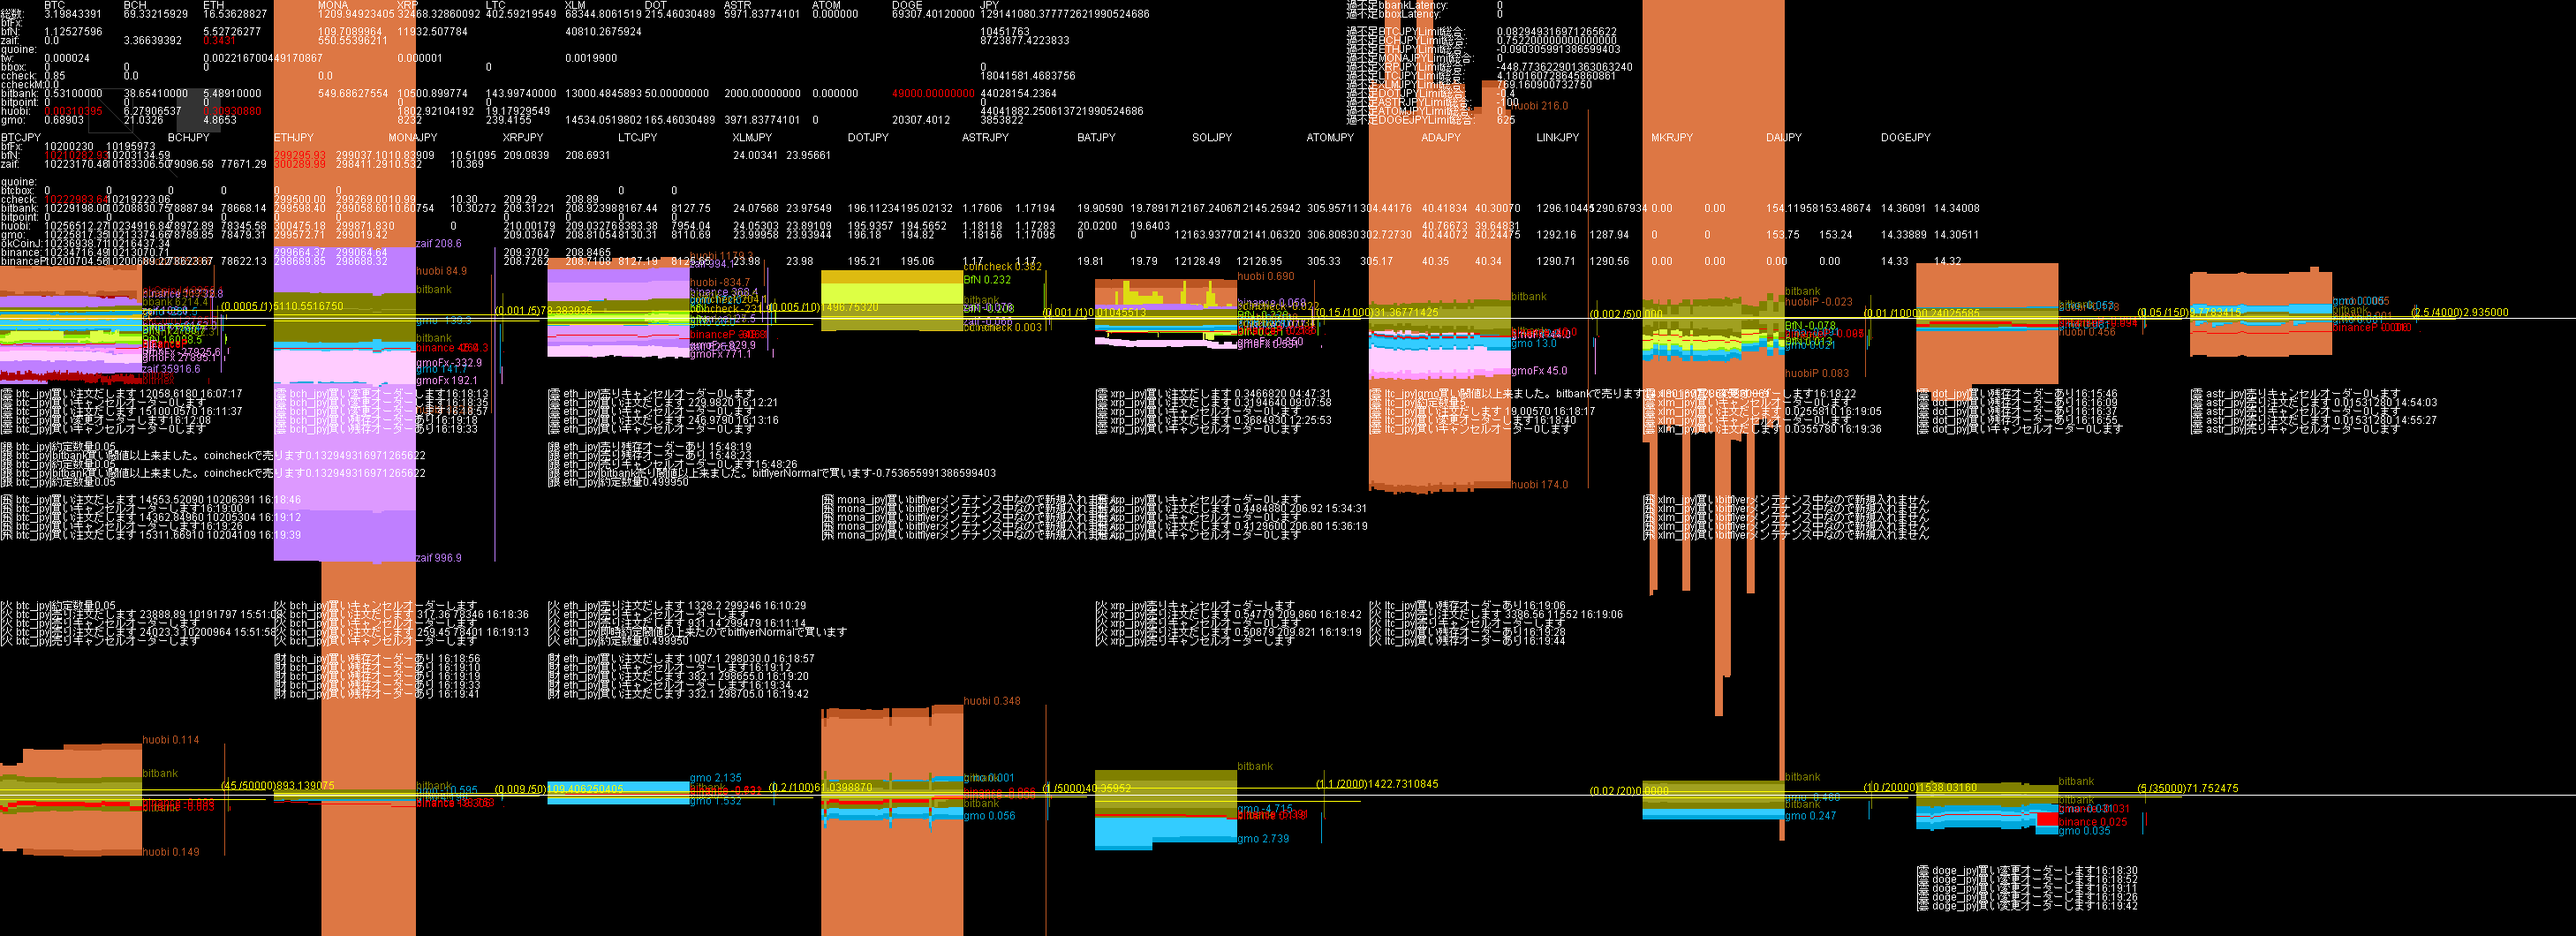
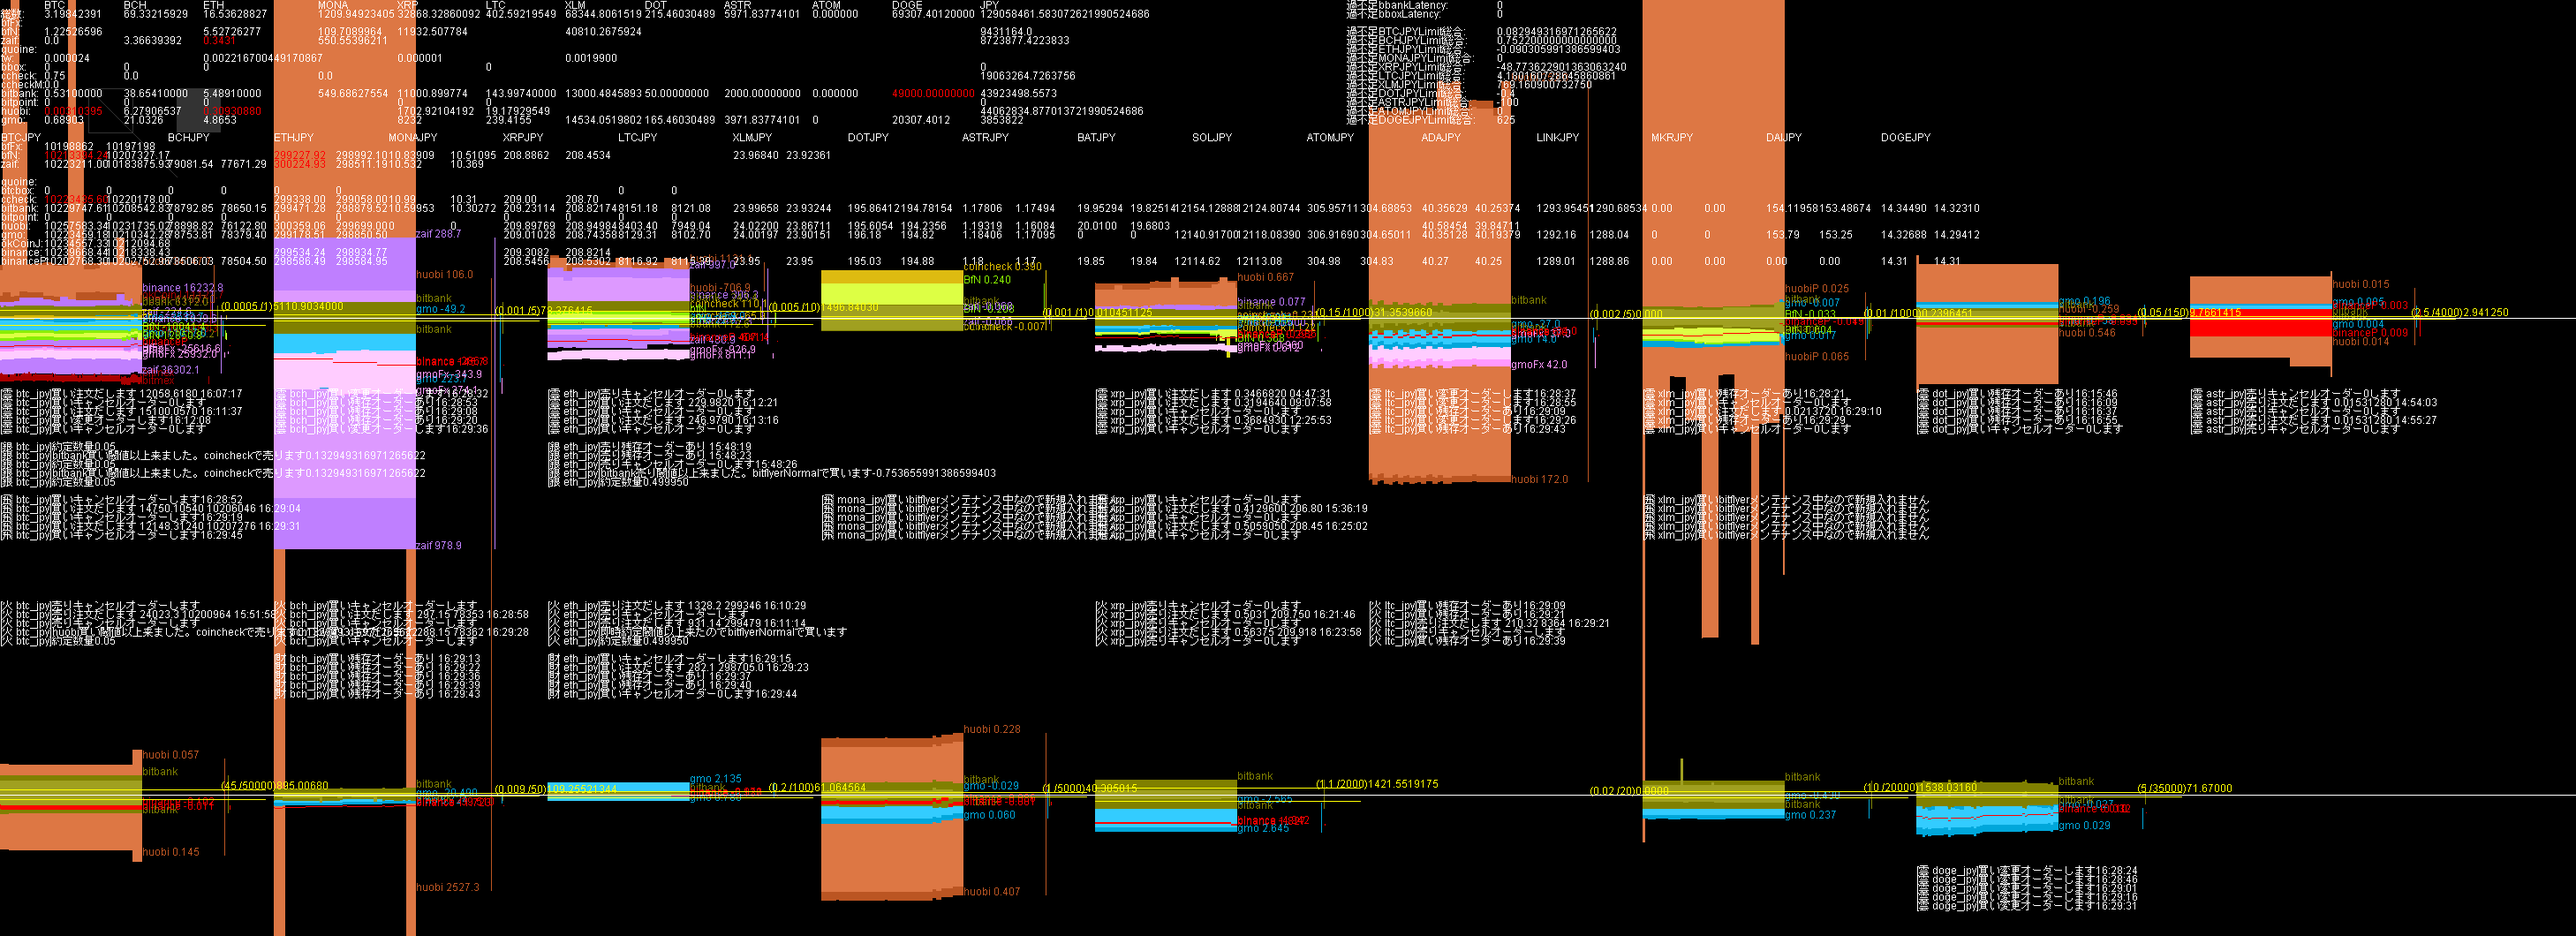
Update HTML file via Java

diff --git a/ca.html b/ca.html
@@ -16,6 +16,9 @@ th { background-color: #222; text-align: center; }
     <tr><th>ddhhmm</th><th>bfJPY</th><th>財JPY</th><th>ccJPY</th><th>銀JPY</th><th>火JPY</th><th>雲JPY</th><th>bfBTC</th><th>財BTC</th><th>ccBTC</th><th>銀BTC</th><th>火BTC</th><th>雲BTC</th><th>bfBCH</th><th>財BCH</th><th>ccBCH</th><th>銀BCH</th><th>火BCH</th><th>雲BCH</th><th>bfETH</th><th>財ETH</th><th>ccETH</th><th>銀ETH</th><th>火ETH</th><th>雲ETH</th><th>bfMONA</th><th>財MONA</th><th>ccMONA</th><th>銀MONA</th><th>火MONA</th><th>雲MONA</th><th>bfXRP</th><th>財XRP</th><th>ccXRP</th><th>銀XRP</th><th>火XRP</th><th>雲XRP</th><th>bfLTC</th><th>財LTC</th><th>ccLTC</th><th>銀LTC</th><th>火LTC</th><th>雲LTC</th><th>bfXLM</th><th>財XLM</th><th>ccXLM</th><th>銀XLM</th><th>火XLM</th><th>雲XLM</th><th>bfDOT</th><th>財DOT</th><th>ccDOT</th><th>銀DOT</th><th>火DOT</th><th>雲DOT</th><th>bfASTR</th><th>財ASTR</th><th>ccASTR</th><th>銀ASTR</th><th>火ASTR</th><th>雲ASTR</th><th>bfDOGE</th><th>財DOGE</th><th>ccDOGE</th><th>銀DOGE</th><th>火DOGE</th><th>雲DOGE</th>    </tr>  </thead>
   <tbody>
     <tr>
+<td>131629</td><td>00943</td><td>00872</td><td>01906</td><td>04392</td><td>04406</td><td>00385</td><td>01.23</td><td>00.00</td><td>00.75</td><td>00.53</td><td><span style="color: #ff69b4">00.00</span></td><td>00.69</td><td>00.00</td><td>03.37</td><td>00.00</td><td>38.65</td><td>06.28</td><td>21.03</td><td>05.53</td><td><span style="color: #ff69b4">00.34</span></td><td>00.00</td><td>05.49</td><td>00.31</td><td>04.87</td><td>0109.7</td><td>0550.6</td><td>0000.0</td><td>0549.7</td><td>0000.0</td><td>0000.0</td><td>11933</td><td>00000</td><td>00000</td><td>11001</td><td>01703</td><td>08232</td><td>00.00</td><td>00.00</td><td>00.00</td><td>144.00</td><td>19.18</td><td>239.42</td><td><span style="color: #4169e1">00.00</span></td><td>00.00</td><td>00.00</td><td>13000.48</td><td>00.00</td><td>14534.05</td><td>00.00</td><td>00.00</td><td>00.00</td><td>50.00</td><td>00.00</td><td>165.46</td><td>00.00</td><td>00.00</td><td>00.00</td><td>2000.00</td><td>00.00</td><td>3971.84</td><td>00.00</td><td>00.00</td><td>00.00</td><td><span style="color: #4169e1">49000.00</span></td><td>00.00</td><td>20307.40</td>
+    </tr>
+    <tr>
 <td>131619</td><td>01045</td><td>00872</td><td>01804</td><td>04402</td><td>04404</td><td>00385</td><td>01.13</td><td>00.00</td><td>00.85</td><td>00.53</td><td><span style="color: #ff69b4">00.00</span></td><td>00.69</td><td>00.00</td><td>03.37</td><td>00.00</td><td>38.65</td><td>06.28</td><td>21.03</td><td>05.53</td><td><span style="color: #ff69b4">00.34</span></td><td>00.00</td><td>05.49</td><td>00.31</td><td>04.87</td><td>0109.7</td><td>0550.6</td><td>0000.0</td><td>0549.7</td><td>0000.0</td><td>0000.0</td><td>11933</td><td>00000</td><td>00000</td><td>10501</td><td>01803</td><td>08232</td><td>00.00</td><td>00.00</td><td>00.00</td><td>144.00</td><td>19.18</td><td>239.42</td><td><span style="color: #4169e1">00.00</span></td><td>00.00</td><td>00.00</td><td>13000.48</td><td>00.00</td><td>14534.05</td><td>00.00</td><td>00.00</td><td>00.00</td><td>50.00</td><td>00.00</td><td>165.46</td><td>00.00</td><td>00.00</td><td>00.00</td><td>2000.00</td><td>00.00</td><td>3971.84</td><td>00.00</td><td>00.00</td><td>00.00</td><td><span style="color: #4169e1">49000.00</span></td><td>00.00</td><td>20307.40</td>
     </tr>
     <tr>
